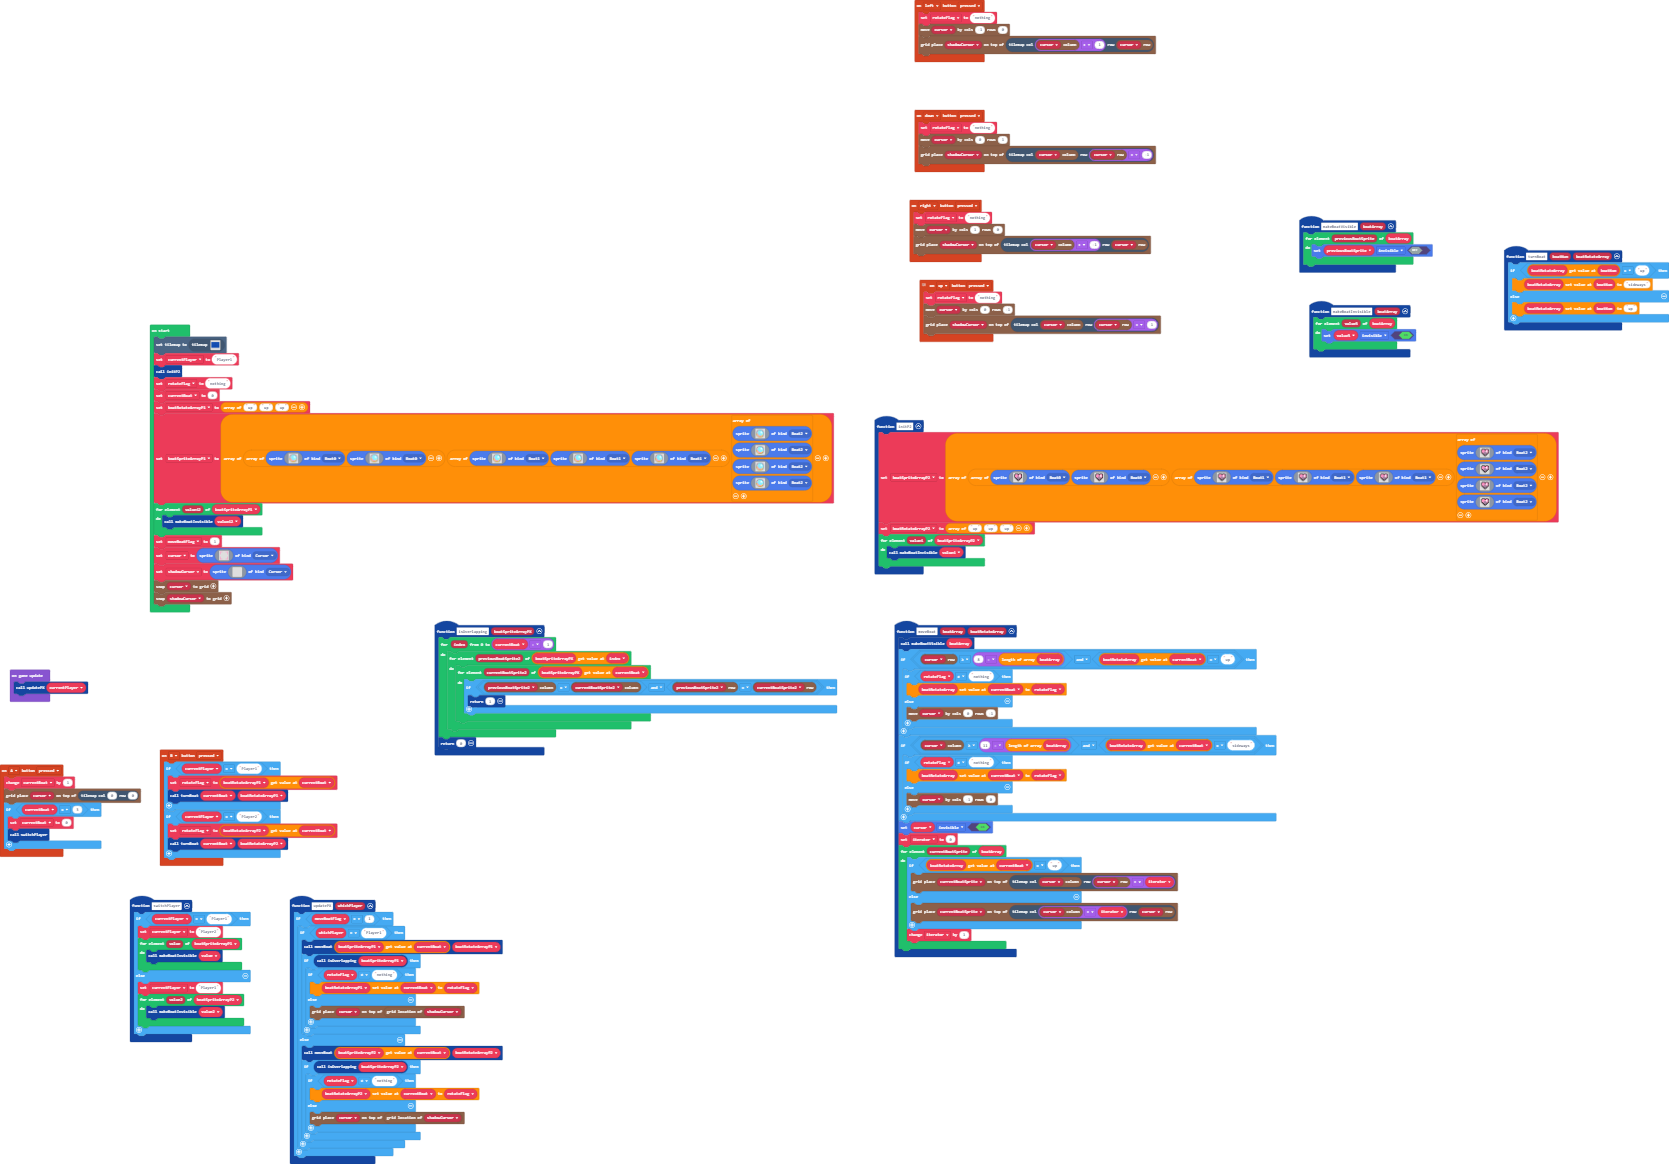
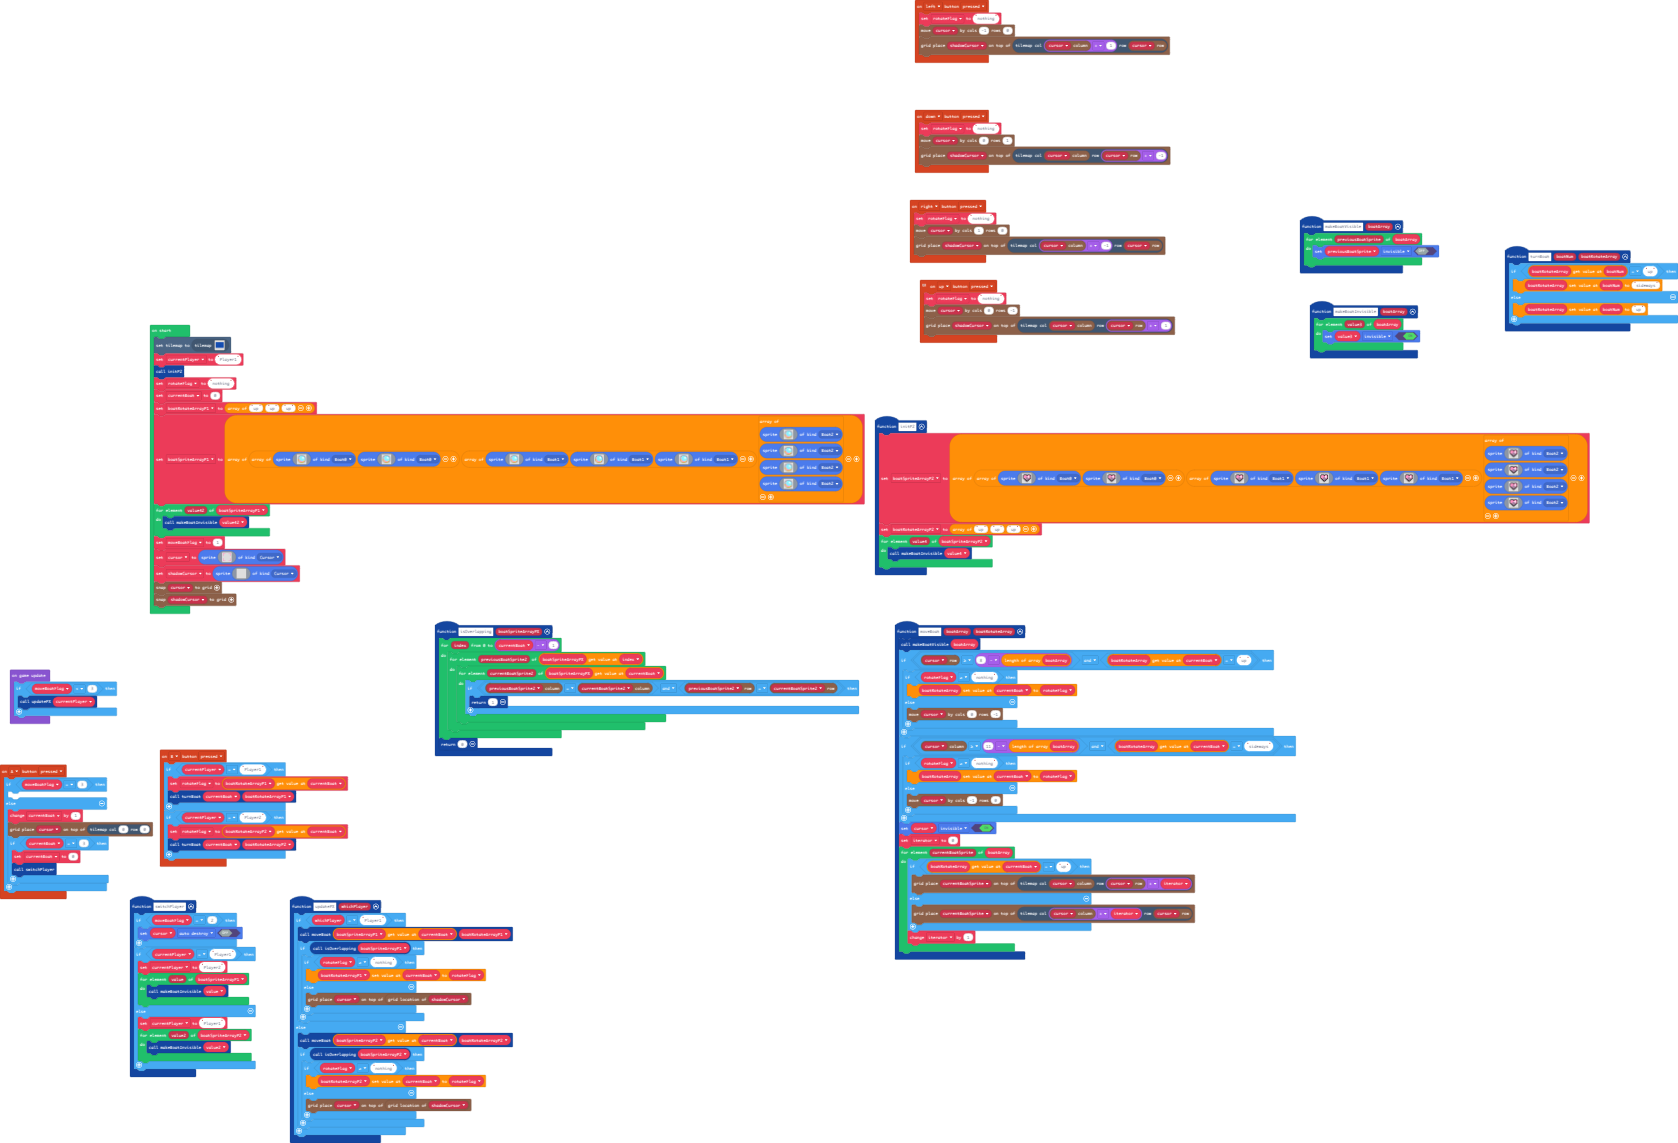
Cursor turns on!

diff --git a/main.ts b/main.ts
@@ -11,24 +11,22 @@ controller.up.onEvent(ControllerButtonEvent.Pressed, function () {
     grid.place(shadowCursor, tiles.getTileLocation(grid.spriteCol(cursor), grid.spriteRow(cursor) + 1))
 })
 function updatePX (whichPlayer: string) {
-    if (moveBoatFlag == 1) {
-        if (whichPlayer == "Player1") {
-            moveBoat(boatSpriteArrayP1[currentBoat], boatRotateArrayP1)
-            if (isOverlapping(boatSpriteArrayP1)) {
-                if (rotateFlag != "nothing") {
-                    boatRotateArrayP1[currentBoat] = rotateFlag
-                } else {
-                    grid.place(cursor, grid.getLocation(shadowCursor))
-                }
+    if (whichPlayer == "Player1") {
+        moveBoat(boatSpriteArrayP1[currentBoat], boatRotateArrayP1)
+        if (isOverlapping(boatSpriteArrayP1)) {
+            if (rotateFlag != "nothing") {
+                boatRotateArrayP1[currentBoat] = rotateFlag
+            } else {
+                grid.place(cursor, grid.getLocation(shadowCursor))
             }
-        } else {
-            moveBoat(boatSpriteArrayP2[currentBoat], boatRotateArrayP2)
-            if (isOverlapping(boatSpriteArrayP2)) {
-                if (rotateFlag != "nothing") {
-                    boatRotateArrayP2[currentBoat] = rotateFlag
-                } else {
-                    grid.place(cursor, grid.getLocation(shadowCursor))
-                }
+        }
+    } else {
+        moveBoat(boatSpriteArrayP2[currentBoat], boatRotateArrayP2)
+        if (isOverlapping(boatSpriteArrayP2)) {
+            if (rotateFlag != "nothing") {
+                boatRotateArrayP2[currentBoat] = rotateFlag
+            } else {
+                grid.place(cursor, grid.getLocation(shadowCursor))
             }
         }
     }
@@ -49,11 +47,15 @@ function makeBoatVisible (boatArray: Sprite[]) {
     }
 }
 controller.A.onEvent(ControllerButtonEvent.Pressed, function () {
-    currentBoat += 1
-    grid.place(cursor, tiles.getTileLocation(0, 0))
-    if (currentBoat == 3) {
-        currentBoat = 0
-        switchPlayer()
+    if (moveBoatFlag == 3) {
+    	
+    } else {
+        currentBoat += 1
+        grid.place(cursor, tiles.getTileLocation(0, 0))
+        if (currentBoat == 3) {
+            currentBoat = 0
+            switchPlayer()
+        }
     }
 })
 controller.left.onEvent(ControllerButtonEvent.Pressed, function () {
@@ -62,6 +64,9 @@ controller.left.onEvent(ControllerButtonEvent.Pressed, function () {
     grid.place(shadowCursor, tiles.getTileLocation(grid.spriteCol(cursor) + 1, grid.spriteRow(cursor)))
 })
 function switchPlayer () {
+    if (moveBoatFlag == 2) {
+        cursor.setFlag(SpriteFlag.AutoDestroy, false)
+    }
     if (currentPlayer == "Player1") {
         currentPlayer = "Player2"
         for (let value of boatSpriteArrayP1) {
@@ -527,5 +532,7 @@ shadowCursor = sprites.create(img`
 grid.snap(cursor)
 grid.snap(shadowCursor)
 game.onUpdate(function () {
-    updatePX(currentPlayer)
+    if (moveBoatFlag < 3) {
+        updatePX(currentPlayer)
+    }
 })
